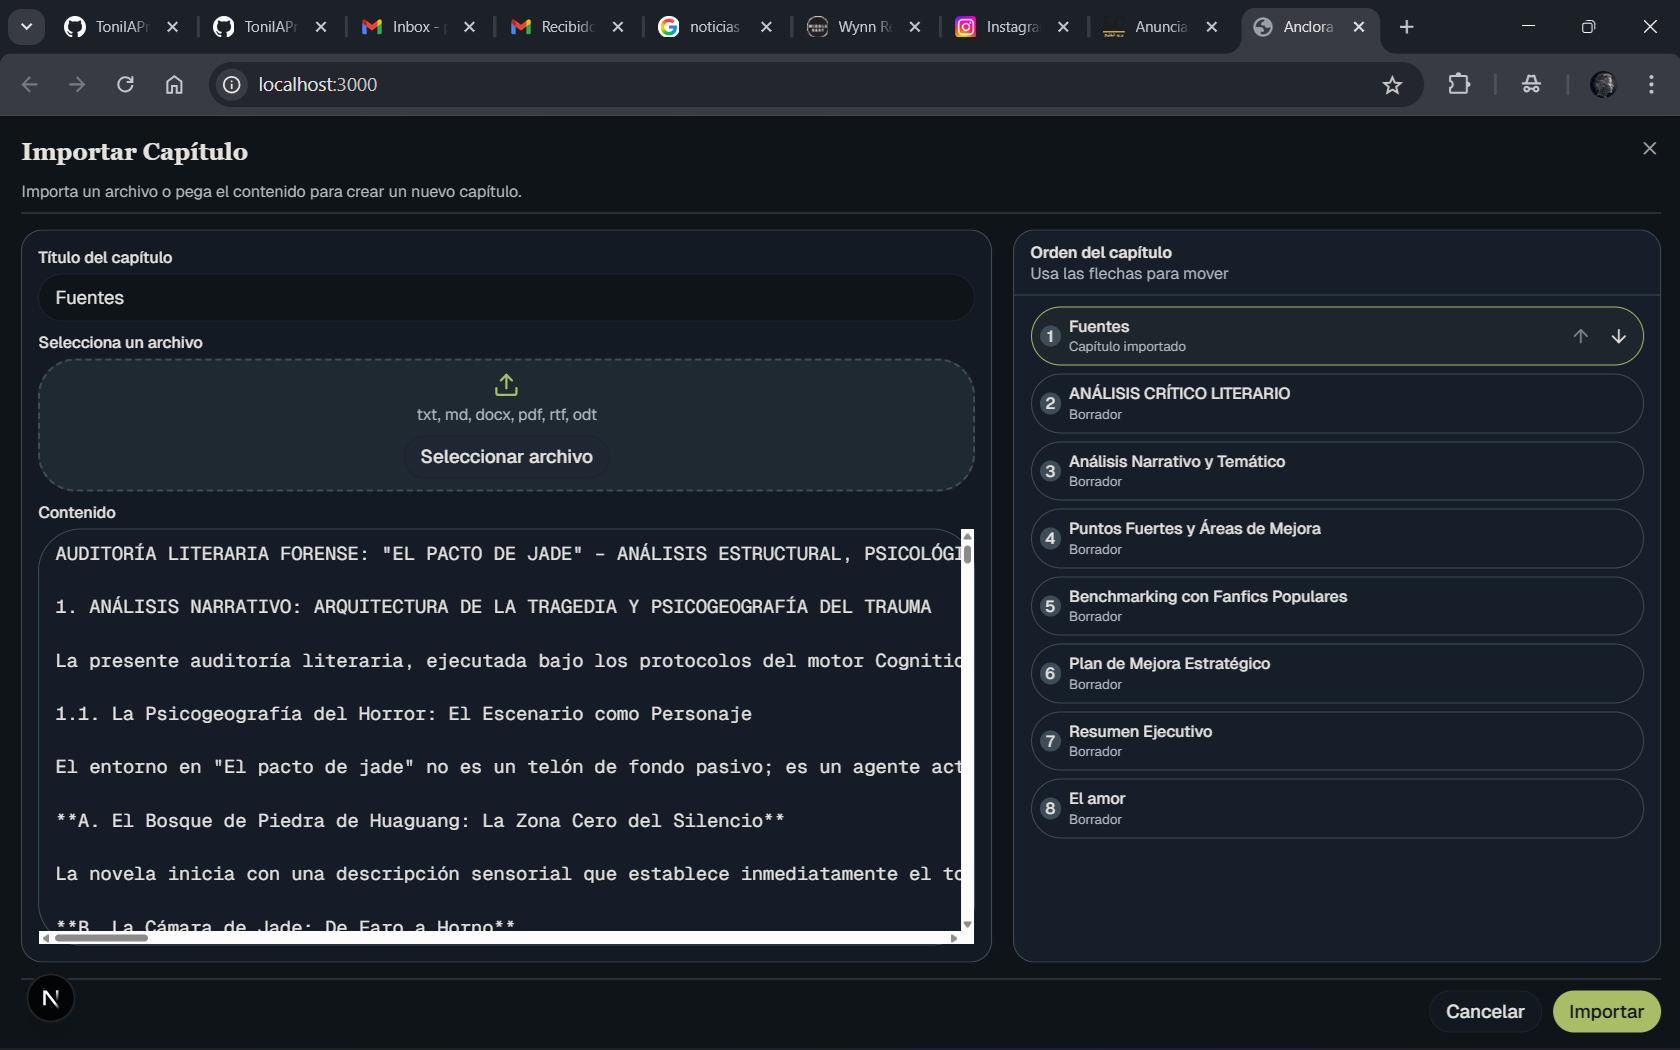
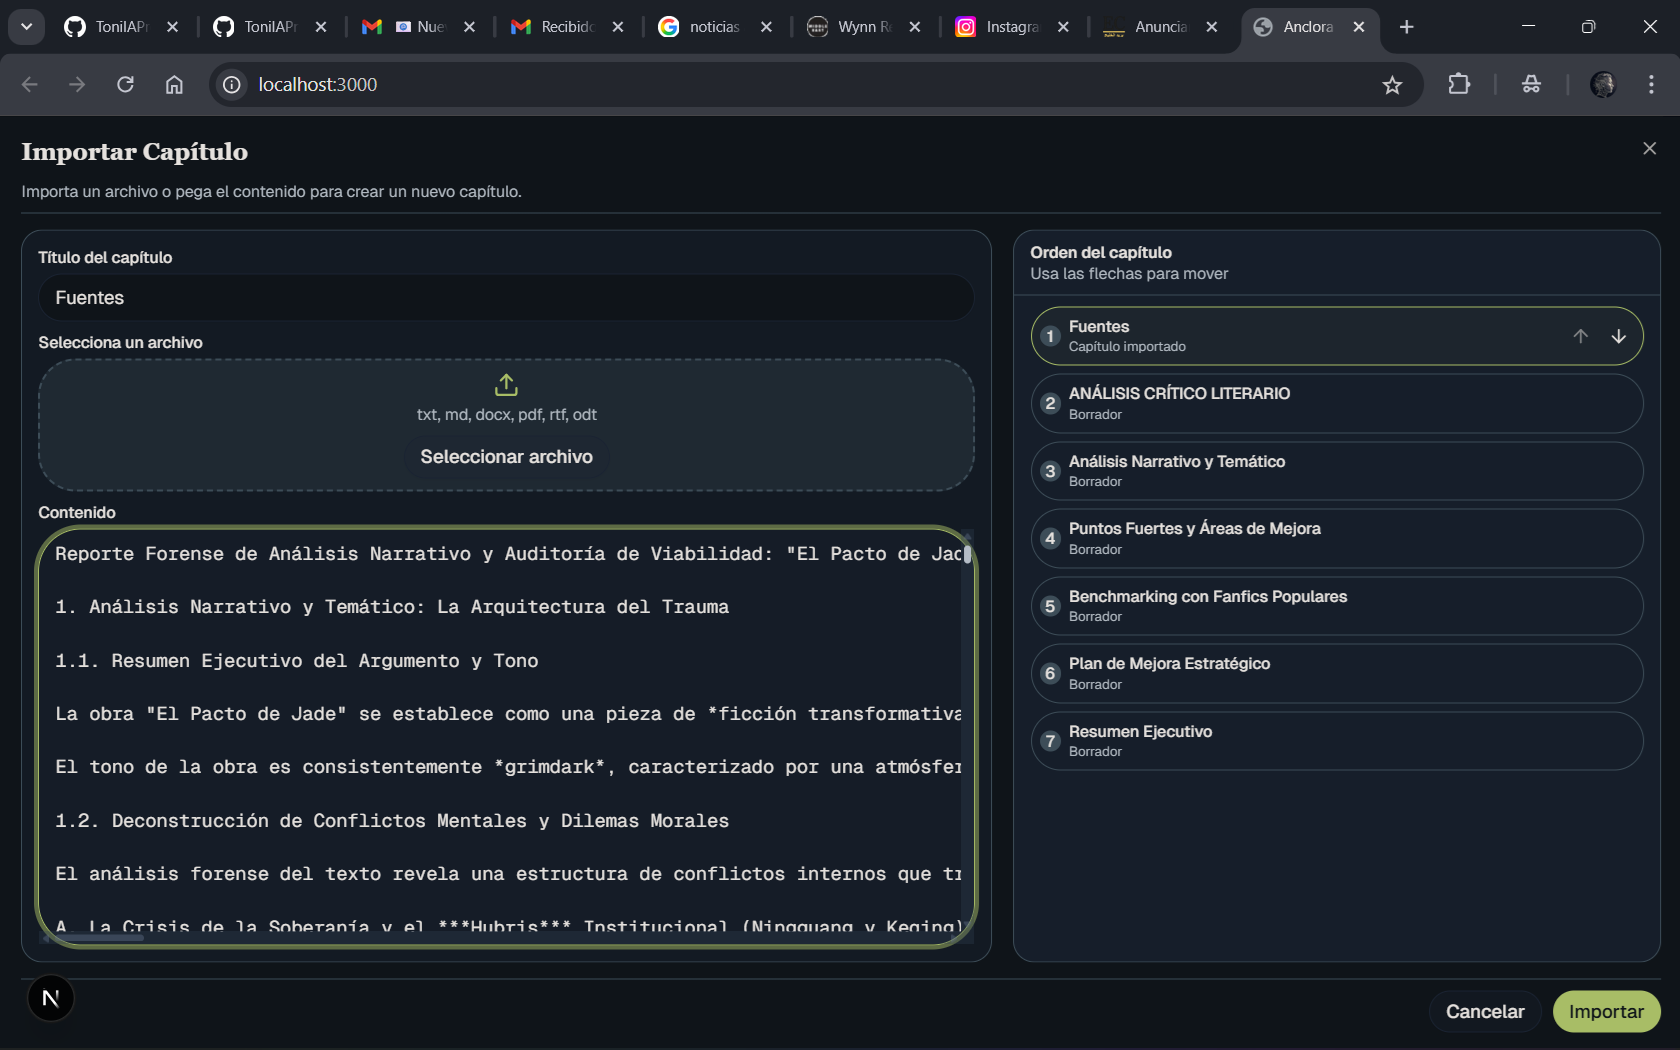
Cambios realizados:
1. Padding interno al textarea (chapter-editor.tsx:491)

  - Agregué px-3 py-2 para dar espacio interno
  - Ahora el contenido no se pega a los bordes y las scrollbars tienen espacio para respirar

  2. Scrollbars más pequeñas y discretas (globals.css:410-469)

  Reducción de tamaño:
  - De 8px a 6px (más pequeñas y discretas)
  - Border-radius de 4px a 3px (proporcional al nuevo tamaño)

  Margen agregado:
  - margin: 2px en el track para separar las scrollbars del borde del textarea

  Opacidades ajustadas:
  - Track modo oscuro: de 0.3 a 0.2 (aún más discreto)
  - Track modo claro: de 0.5 a 0.4 (más sutil)

  Ahora las scrollbars:
  - Son más pequeñas (6px vs 8px)
  - No se superponen al borde del textarea
  - Tienen espacio para respirar gracias al padding
  - Son más discretas visualmente
  - Se ven profesionales y bien integradas

  Recuerda hacer Ctrl+Shift+R para limpiar la caché del navegador y ver todos los cambios aplicados.

diff --git a/src/app/globals.css b/src/app/globals.css
@@ -411,22 +411,23 @@
 /* Dark mode */
 .dark .dark-scrollbar {
   scrollbar-width: thin;
-  scrollbar-color: rgba(100, 116, 139, 0.4) rgba(51, 65, 85, 0.3);
+  scrollbar-color: rgba(100, 116, 139, 0.4) rgba(51, 65, 85, 0.2);
 }
 
 .dark .dark-scrollbar::-webkit-scrollbar {
-  width: 8px;
-  height: 8px;
+  width: 6px;
+  height: 6px;
 }
 
 .dark .dark-scrollbar::-webkit-scrollbar-track {
-  background: rgba(51, 65, 85, 0.3);
-  border-radius: 4px;
+  background: rgba(51, 65, 85, 0.2);
+  border-radius: 3px;
+  margin: 2px;
 }
 
 .dark .dark-scrollbar::-webkit-scrollbar-thumb {
   background-color: rgba(100, 116, 139, 0.5);
-  border-radius: 4px;
+  border-radius: 3px;
 }
 
 .dark .dark-scrollbar::-webkit-scrollbar-thumb:hover {
@@ -434,28 +435,29 @@
 }
 
 .dark .dark-scrollbar::-webkit-scrollbar-corner {
-  background: rgba(51, 65, 85, 0.3);
+  background: rgba(51, 65, 85, 0.2);
 }
 
 /* Light mode */
 .dark-scrollbar {
   scrollbar-width: thin;
-  scrollbar-color: rgba(148, 163, 184, 0.4) rgba(226, 232, 240, 0.5);
+  scrollbar-color: rgba(148, 163, 184, 0.4) rgba(226, 232, 240, 0.4);
 }
 
 .dark-scrollbar::-webkit-scrollbar {
-  width: 8px;
-  height: 8px;
+  width: 6px;
+  height: 6px;
 }
 
 .dark-scrollbar::-webkit-scrollbar-track {
-  background: rgba(226, 232, 240, 0.5);
-  border-radius: 4px;
+  background: rgba(226, 232, 240, 0.4);
+  border-radius: 3px;
+  margin: 2px;
 }
 
 .dark-scrollbar::-webkit-scrollbar-thumb {
   background-color: rgba(148, 163, 184, 0.5);
-  border-radius: 4px;
+  border-radius: 3px;
 }
 
 .dark-scrollbar::-webkit-scrollbar-thumb:hover {
@@ -463,7 +465,7 @@
 }
 
 .dark-scrollbar::-webkit-scrollbar-corner {
-  background: rgba(226, 232, 240, 0.5);
+  background: rgba(226, 232, 240, 0.4);
 }
 
 /* ===== BROWSER AUTOFILL OVERRIDE ===== */

diff --git a/src/components/chapter-editor.tsx b/src/components/chapter-editor.tsx
@@ -488,7 +488,7 @@ export default function ChapterEditor({
                                   }
                                   wrap="off"
                                   spellCheck={false}
-                                  className="w-full resize-none font-mono text-xs rounded-xl border border-border bg-background/90 dark-scrollbar"
+                                  className="w-full resize-none font-mono text-xs rounded-xl border border-border bg-background/90 dark-scrollbar px-3 py-2"
                                   style={{
                                     whiteSpace: "pre",
                                     wordBreak: "normal",
